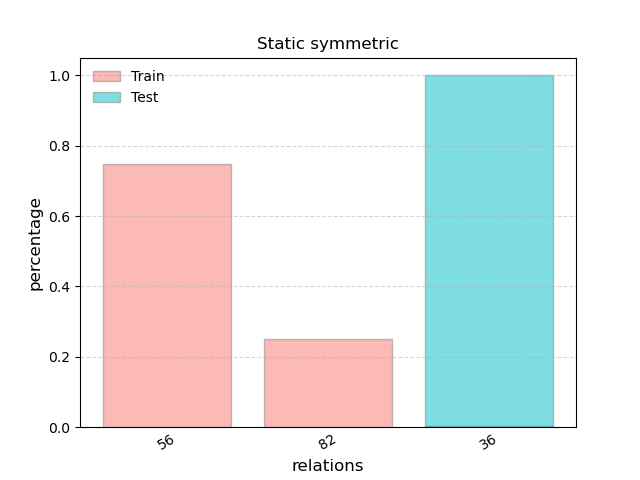
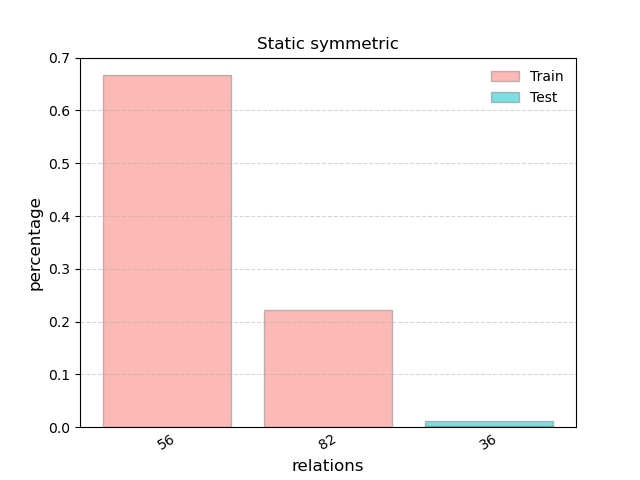
update 2.1

diff --git a/temporal_pattern_lookout/utilities.py b/temporal_pattern_lookout/utilities.py
@@ -45,9 +45,17 @@ class PlotTools:
             test_set = test_set[~test_set['freq'].isin([0])]
         train_set.reset_index(inplace=True)
         test_set.reset_index(inplace=True)
-        fig, ax = plt.subplots(1, 1)
-        ax.bar(train_set.loc[:, 'relation'].apply(str), train_set.loc[:, 'freq'] / train_set.loc[:, 'freq'].sum(), label='Train', color='#f9766e', edgecolor='grey', alpha=0.5)
-        ax.bar(test_set.loc[:, 'relation'].apply(str), test_set.loc[:, 'freq'] / test_set.loc[:, 'freq'].sum(), label='Test', color='#00bfc4', edgecolor='grey', alpha=0.5)
+        fig, ax = plt.subplots(1, 1, figsize=(24, 6))
+        if on == 'relations':
+            ax.bar(train_set.loc[:, 'relation'].apply(str), train_set.loc[:, 'freq'] / train_set.loc[:, 'freq'].sum(),
+                   label='Train', color='#f9766e', edgecolor='grey', alpha=0.5)
+            ax.bar(test_set.loc[:, 'relation'].apply(str), test_set.loc[:, 'freq'] / test_set.loc[:, 'freq'].sum(),
+                   label='Test', color='#00bfc4', edgecolor='grey', alpha=0.5)
+        elif on == 'symmetric':
+            ax.bar(train_set.loc[:, 'relation'].apply(str), train_set.loc[:, 'freq'],
+                   label='Train', color='#f9766e', edgecolor='grey', alpha=0.5)
+            ax.bar(test_set.loc[:, 'relation'].apply(str), test_set.loc[:, 'freq'],
+                   label='Test', color='#00bfc4', edgecolor='grey', alpha=0.5)
         ax.set_xlabel('relations', fontsize=12)
         ax.set_ylabel('percentage', fontsize=12)
         ax.tick_params(axis='x', length=0, rotation=30)
@@ -57,6 +65,7 @@ class PlotTools:
 
         if on == 'relations':
             ax.xaxis.set_major_locator(ticke.MultipleLocator(base=5))
+
         if save_path:
-            plt.savefig(save_path + 'Distribution.png')
+            plt.savefig(save_path + 'Distribution.png', dpi=300)
         plt.show()

diff --git a/temporal_pattern_lookout/temporal_pattern_lookout.py b/temporal_pattern_lookout/temporal_pattern_lookout.py
@@ -301,6 +301,7 @@ def main():
                         ,'d_symm': save_path + '/dynamic/symmetric'
                         , 'd_rel': save_path + '/dynamic/relations'
                         }
+
             for p in path_list.values():
                 if not os.path.exists(p):
                     os.makedirs(p)

diff --git a/temporal_pattern_lookout/evaluation.py b/temporal_pattern_lookout/evaluation.py
@@ -9,7 +9,7 @@ from utilities import PlotTools
 
 
 def plot_distribution(on='symmetric'):
-    stat_path = '../results/wikidata_TA/statistics'
+    stat_path = '../results/ICEWS14_TA/statistics'
     temp_path = stat_path + '/dynamic/{}/'.format(on)
     static_path = stat_path + '/static/{}/'.format(on)
 
